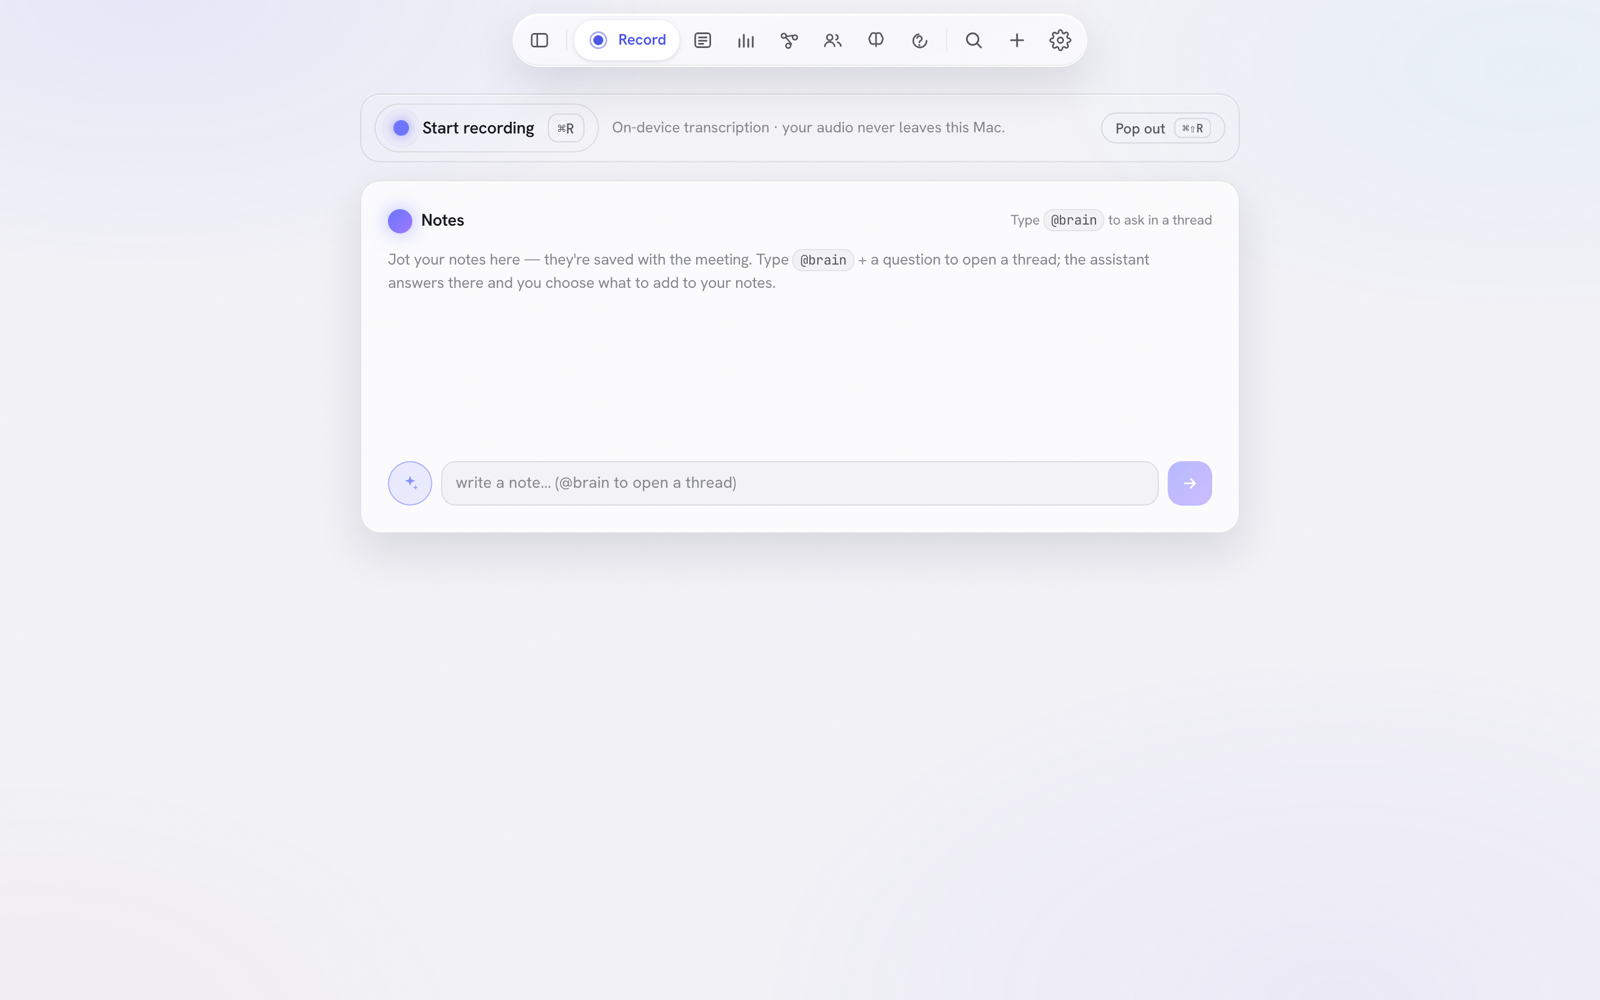
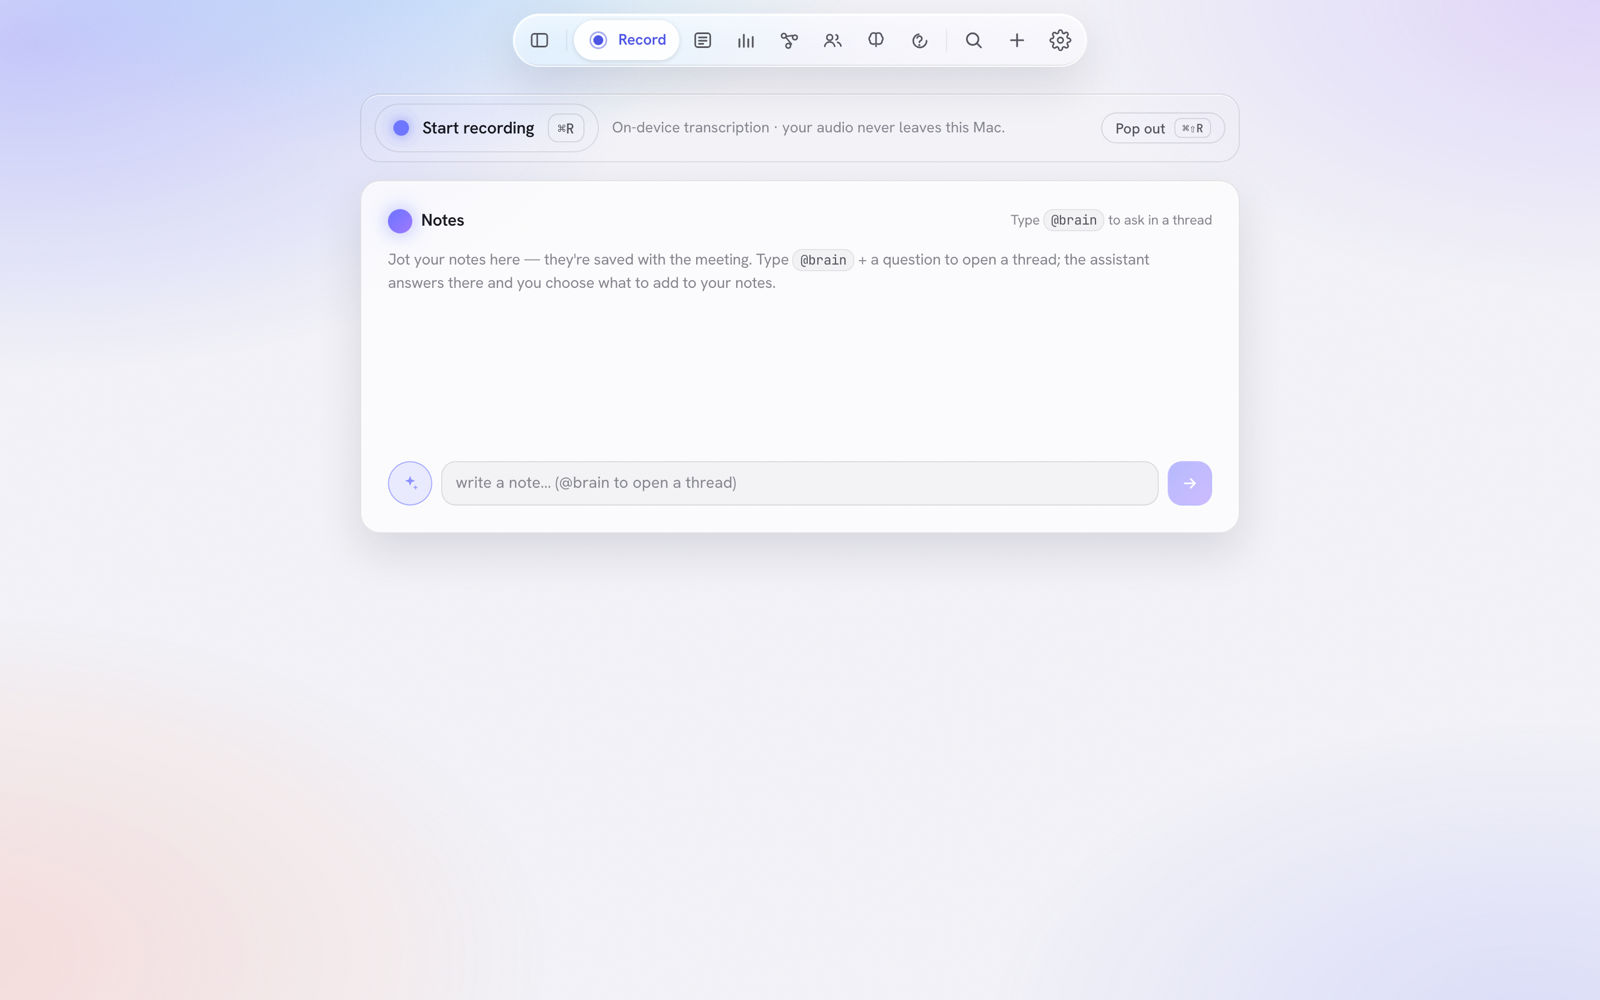
feat(shell): real Liquid Glass — ambient refraction field + transparency slider
Modeled on macOS 26 (Apple Mail): glass only reads when there is color BEHIND
it, so the aurora becomes a tokenized ambient field (--aurora-field) with a
dedicated light-mode variant — full-opacity pastel blobs hugging the window
edges (under the rail/pill) while the reading column stays calm. The chrome
fill gets clearer (lower alpha, 210% saturation) so the field genuinely lenses
through, with the specular rim + illumination bloom carrying the three HIG
glass layers (highlight/shadow/illumination).

New GlassService (localStorage murmur-glass, applied as --glass-user-alpha on
<html> at bootstrap) + an Appearance slider (0-100%): the veil layer fades
every chrome pane to solid at 0% — the same behavior the stylesheet forces
under prefers-reduced-transparency (!important, wins over the inline value).
Spotlight stays opaque per the overlay rule regardless of the slider.

Adversarially verified (25/25): slider→alpha→veil live, persistence + garbage/
absent key defaults, zero save_config from slider moves, T3 opacity, reduced-
transparency override. Preview screenshots recaptured.

Changed region(s): [[0.0, 0.0, 0.375, 0.186], [0.9688, 0.0, 1.0, 0.031]]

diff --git a/src/app/services/glass.service.ts b/src/app/services/glass.service.ts
@@ -1,0 +1,63 @@
+import { Injectable, signal } from "@angular/core";
+
+const STORAGE_KEY = "murmur-glass";
+/** Full glass by default — the prototype's Liquid Glass look. */
+const DEFAULT_LEVEL = 100;
+
+/**
+ * PROTOTYPE (Apple TV shell) — owns the Liquid Glass intensity: how translucent
+ * the chrome panels (sidebar / pill bar / drill-down rails) are, 0 (opaque) to
+ * 100 (full glass). Mirrors ThemeService: persisted in localStorage, applied as
+ * the `--glass-user-alpha` custom property on <html>; the actual glass layers
+ * (veil, lensing rim, illumination) live in styles.css and read that token.
+ *
+ * A stylesheet `prefers-reduced-transparency` override in styles.css wins over
+ * this inline property (it is `!important`), matching the HIG's accessibility
+ * behavior for Liquid Glass.
+ */
+@Injectable({ providedIn: "root" })
+export class GlassService {
+  private readonly _level = signal<number>(this.read());
+  /** Glass transparency 0–100 (100 = full Liquid Glass, 0 = opaque panels). */
+  readonly level = this._level.asReadonly();
+
+  constructor() {
+    this.apply(this._level());
+  }
+
+  /** Re-assert the property (idempotent). Called once at app start. */
+  ensureApplied(): void {
+    this.apply(this._level());
+  }
+
+  /** Set and persist the glass level; applies immediately (auto-saved). */
+  setLevel(level: number): void {
+    const v = Math.min(100, Math.max(0, Math.round(level)));
+    this._level.set(v);
+    try {
+      localStorage.setItem(STORAGE_KEY, String(v));
+    } catch {
+      // localStorage unavailable — the in-memory value still applies this session.
+    }
+    this.apply(v);
+  }
+
+  private read(): number {
+    try {
+      const raw = localStorage.getItem(STORAGE_KEY);
+      if (raw === null || raw.trim() === "") return DEFAULT_LEVEL; // Number(null)=0 — never mistake "unset" for opaque
+      const v = Number(raw);
+      if (Number.isFinite(v) && v >= 0 && v <= 100) return Math.round(v);
+    } catch {
+      // ignore — fall through to the default
+    }
+    return DEFAULT_LEVEL;
+  }
+
+  private apply(level: number): void {
+    document.documentElement.style.setProperty(
+      "--glass-user-alpha",
+      String(level / 100),
+    );
+  }
+}

diff --git a/src/app/app.component.ts b/src/app/app.component.ts
@@ -13,6 +13,7 @@ import { filter, map } from "rxjs";
 import { IpcService } from "./core/ipc.service";
 import { NavHistoryService } from "./core/nav-history.service";
 import { FoldersService } from "./services/folders.service";
+import { GlassService } from "./services/glass.service";
 import { ScreenShareService } from "./services/screen-share.service";
 import { ThemeService } from "./services/theme.service";
 import { UpdateService } from "./services/update.service";
@@ -37,6 +38,8 @@ export class AppComponent implements OnInit {
   // Injected at bootstrap so the theme is applied (in the service constructor)
   // before the main window is revealed — no flash of the wrong theme.
   private readonly theme = inject(ThemeService);
+  // Same for the Liquid Glass level (--glass-user-alpha on <html>).
+  private readonly glass = inject(GlassService);
   private readonly updates = inject(UpdateService);
   // Injected at bootstrap purely so it starts observing router events from the
   // FIRST navigation — its "last non-settings route" (used by the settings
@@ -109,8 +112,9 @@ export class AppComponent implements OnInit {
    * The bar window does neither — it stays chromeless and side-effect-free.
    */
   async ngOnInit(): Promise<void> {
-    // Re-assert the chosen theme on startup (idempotent) for both windows.
+    // Re-assert the chosen theme + glass level on startup (idempotent) for both windows.
     this.theme.ensureApplied();
+    this.glass.ensureApplied();
 
     if (this.isBar()) return;
 

diff --git a/.claude/learnings/angular-zoneless-dev.md b/.claude/learnings/angular-zoneless-dev.md
@@ -33,6 +33,21 @@
 ## Run journal
 <!-- Append-only, newest first. -->
 
+### [2026-07-04] Settings auto-save — a type="number" input killed the save stream
+- **Pattern 1:** an `<input type="number">` bound to a STRING-typed form control commits a
+  NUMBER (or null when cleared) via NumberValueAccessor — any `.trim()`/string method on
+  `getRawValue()` then throws. Normalize (`raw == null ? "" : String(raw)`) before string ops.
+- **Pattern 2:** a synchronous throw inside a `.subscribe()` callback KILLS the subscription —
+  an auto-save wired as `valueChanges → debounce → subscribe(save)` dies silently for the whole
+  session on the first bad value. Wrap the callback body in try/catch and surface the error.
+- **Pattern 3:** replacing a Save button with debounced auto-save needs a destroy-flush: a
+  change made <debounce before navigation is otherwise dropped (`DestroyRef.onDestroy` +
+  pending flag). And legacy direct `save()` calls (select `(change)` handlers) double-save —
+  retire them.
+- **Caught by:** adversarial-verifier live pass (payload-capturing mock invoke); build+lint
+  green throughout.
+- **Status:** journaled
+
 ### [2026-07-04] Apple TV shell prototype — 2 findings the build/lint missed
 - **Pattern 1:** an `(keydown.escape)` bound on an overlay's scrim/panel only fires while focus
   sits INSIDE that subtree — click any non-focusable text and focus falls to `<body>`, Esc goes
